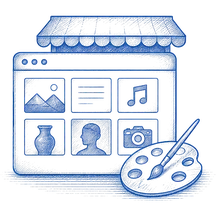
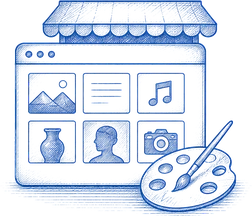
Add files via upload

diff --git a/src/app/[lang]/page.tsx b/src/app/[lang]/page.tsx
@@ -6,10 +6,8 @@ import { FAQ } from "@/components/FAQ";
 import { FindAccordion } from "@/components/FindAccordion";
 import { PeopleMarquee } from "@/components/PeopleMarquee";
 import {
-  SearchIcon,
   ArrowRight,
   CheckShield,
-  SparkIcon,
 } from "@/components/icons";
 import { getDictionary } from "@/i18n";
 import { categoryCount } from "@/lib/plural";
@@ -300,11 +298,10 @@ export default async function HomePage({
                   src={`/images/how/${HOW_ICONS[i]}.webp`}
                   alt=""
                   aria-hidden="true"
-                  width={72}
                   height={72}
                   loading="lazy"
                   decoding="async"
-                  className="block shrink-0"
+                  className="block h-[72px] w-auto shrink-0"
                 />
                 <div>
                   <h3>{item.t}</h3>
@@ -341,12 +338,15 @@ export default async function HomePage({
               className="flex flex-col rounded-2xl border p-6 md:p-8"
               style={{ borderColor: "var(--color-line)", background: "#fff" }}
             >
-              <span
-                className="grid h-11 w-11 place-items-center rounded-xl"
-                style={{ background: "var(--color-brand-soft)", color: "var(--color-accent)" }}
-              >
-                <SearchIcon />
-              </span>
+              <img
+                src="/images/how/buyers.webp"
+                alt=""
+                aria-hidden="true"
+                height={88}
+                loading="lazy"
+                decoding="async"
+                className="block h-[88px] w-auto"
+              />
               <h2 className="mt-4">{dict.home.forBuyers}</h2>
               <p className="mt-3" style={{ color: "var(--color-muted)" }}>
                 {dict.home.forBuyersText}
@@ -375,12 +375,15 @@ export default async function HomePage({
                 background: "var(--color-brand-soft)",
               }}
             >
-              <span
-                className="grid h-11 w-11 place-items-center rounded-xl bg-white"
-                style={{ color: "var(--color-accent)" }}
-              >
-                <SparkIcon />
-              </span>
+              <img
+                src="/images/how/creators.webp"
+                alt=""
+                aria-hidden="true"
+                height={88}
+                loading="lazy"
+                decoding="async"
+                className="block h-[88px] w-auto"
+              />
               <h2 className="mt-4">{dict.home.forCreators}</h2>
               <p className="mt-3" style={{ color: "var(--color-muted)" }}>
                 {dict.home.forCreatorsText}

diff --git a/src/app/[lang]/join/page.tsx b/src/app/[lang]/join/page.tsx
@@ -4,7 +4,7 @@ import { Breadcrumbs } from "@/components/Breadcrumbs";
 import { site } from "@/lib/config";
 import { FAQ } from "@/components/FAQ";
 import { JoinPicker } from "@/components/JoinPicker";
-import { CheckShield, ArrowRight, SparkIcon } from "@/components/icons";
+import { CheckShield, ArrowRight } from "@/components/icons";
 import { getDictionary } from "@/i18n";
 import { DEFAULT_LOCALE, isLocale, localizedPath, altLanguages } from "@/i18n/config";
 import type { Locale } from "@/i18n/config";
@@ -69,12 +69,15 @@ export default async function JoinPage({
           className="rounded-2xl border p-6 md:p-10"
           style={{ borderColor: "var(--color-brand)", background: "var(--color-brand-soft)" }}
         >
-          <span
-            className="grid h-11 w-11 place-items-center rounded-xl bg-white"
-            style={{ color: "var(--color-accent)" }}
-          >
-            <SparkIcon />
-          </span>
+          <img
+            src="/images/how/creators.webp"
+            alt=""
+            aria-hidden="true"
+            height={88}
+            loading="lazy"
+            decoding="async"
+            className="block h-[88px] w-auto"
+          />
           <h1 className="mt-4">{dict.join.title}</h1>
           <p className="lead mt-3">{dict.join.intro}</p>
           <div className="mt-6 flex flex-wrap gap-2">